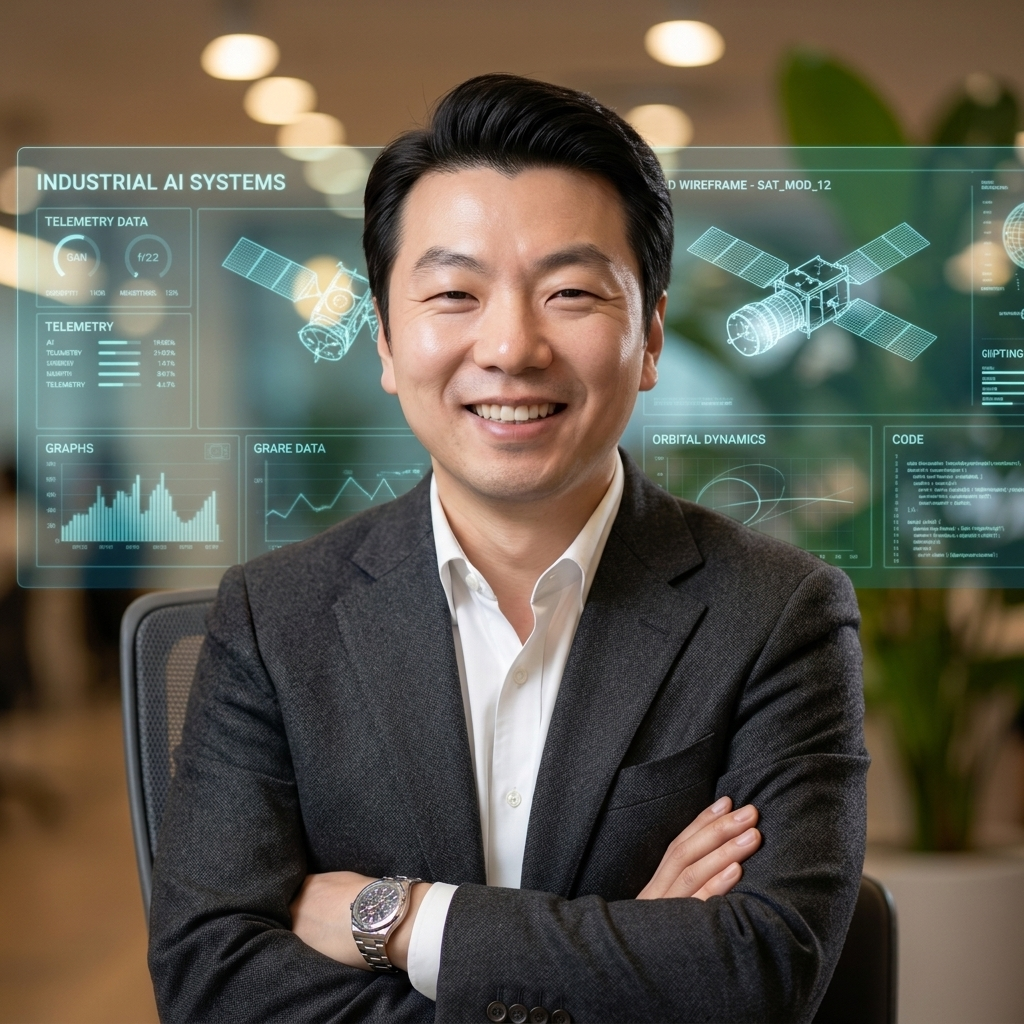
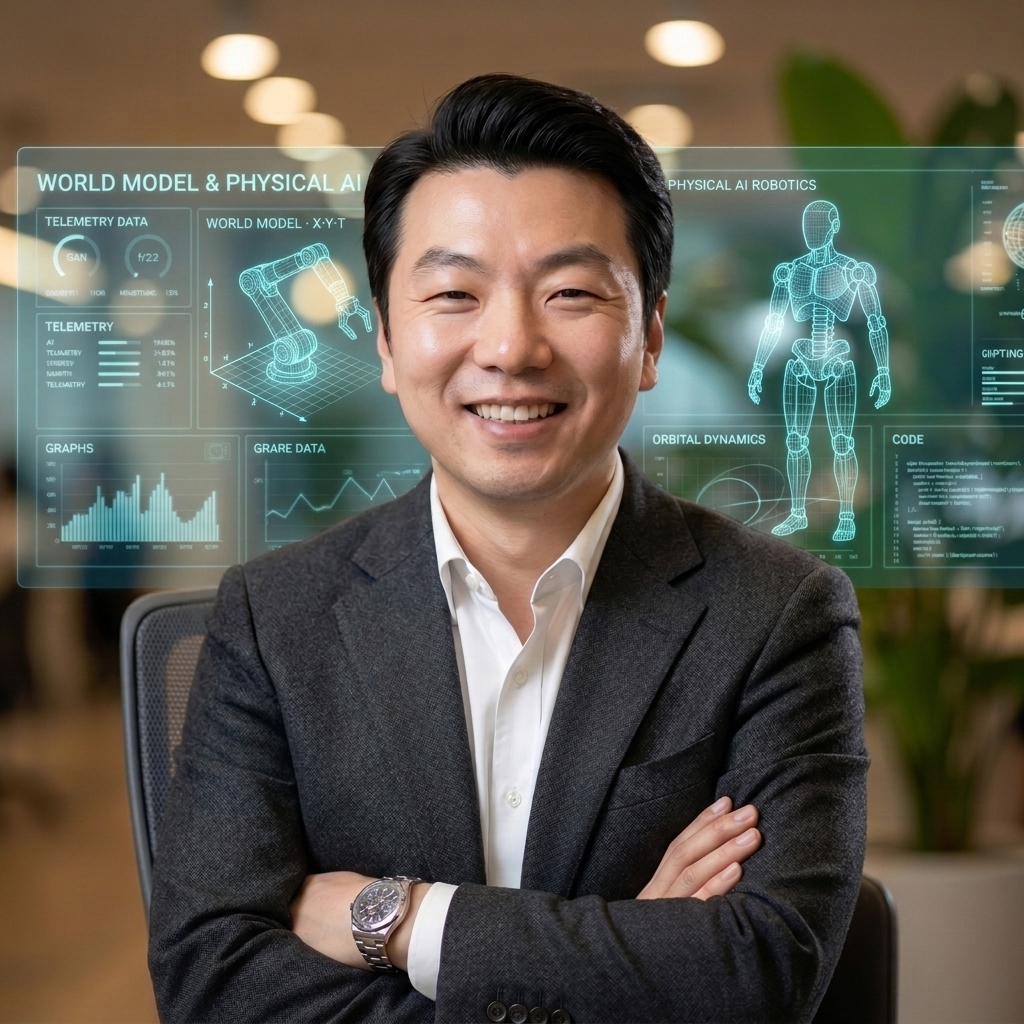
Update CEO portrait HUD background from satellites to World Model (X·Y·T) and Physical AI Robotics

Changed region(s): [[0.6562, 0.1562, 0.9062, 0.5312], [0.0312, 0.1562, 0.375, 0.4062], [0.3438, 0.875, 0.375, 0.9062]]

diff --git a/story.html b/story.html
@@ -1571,7 +1571,7 @@
                             </div>
                             <div class="col-lg-4">
                                 <div class="p-4 rounded-4 text-center" style="background: rgba(7, 11, 20, 0.85); border: 1px solid rgba(56, 189, 248, 0.3);">
-                                    <img src="assets/images/team/team-1.jpg?v=20261102v50" alt="허상훈 대표 (Sang-Hun Heo)" style="width: 136px; height: 136px; object-fit: cover; border-radius: 20px; border: 2px solid rgba(56, 189, 248, 0.45); box-shadow: 0 12px 28px rgba(0,0,0,0.45); margin-bottom: 16px;">
+                                    <img src="assets/images/team/team-1.jpg?v=20261103v83" alt="허상훈 대표 (Sang-Hun Heo)" style="width: 136px; height: 136px; object-fit: cover; border-radius: 20px; border: 2px solid rgba(56, 189, 248, 0.45); box-shadow: 0 12px 28px rgba(0,0,0,0.45); margin-bottom: 16px;">
                                     <h5 class="text-white fw-bold mb-1">허상훈 (Sang-Hun Heo)</h5>
                                     <p class="text-caption mb-2" style="color: #38bdf8; font-weight: 700;">대표(CEO) · 월드모델(World Model) <span style="white-space: nowrap;">AI&nbsp;아키텍트</span></p>
                                     <div class="text-center text-caption mb-3" style="color: #cbd5e1; line-height: 1.68; word-break: keep-all;">

diff --git a/index-v2.html b/index-v2.html
@@ -1595,7 +1595,7 @@
                         <div class="col-lg-4 col-md-8 lg-mb-24">
                             <div class="team-item team-ceo-card h-100 effectFade fadeUp">
                                 <div class="image">
-                                    <img src="assets/images/team/team-1.jpg?v=20261102v50" alt="허상훈 대표 (CEO)">
+                                    <img src="assets/images/team/team-1.jpg?v=20261103v83" alt="허상훈 대표 (CEO)">
                                 </div>
                                 <div class="team-ceo-body">
                                     <div class="name h6 fw-semibold">허상훈 (Sang-Hun Heo)</div>

diff --git a/index.html b/index.html
@@ -1594,7 +1594,7 @@
                         <div class="col-lg-4 col-md-8 lg-mb-24">
                             <div class="team-item team-ceo-card h-100 effectFade fadeUp">
                                 <div class="image">
-                                    <img src="assets/images/team/team-1.jpg?v=20261102v50" alt="허상훈 대표 (CEO)">
+                                    <img src="assets/images/team/team-1.jpg?v=20261103v83" alt="허상훈 대표 (CEO)">
                                 </div>
                                 <div class="team-ceo-body">
                                     <div class="name h6 fw-semibold">허상훈 (Sang-Hun Heo)</div>

diff --git a/about.html b/about.html
@@ -890,7 +890,7 @@
                         <div class="col-lg-4 col-md-8 lg-mb-24">
                             <div class="team-item team-ceo-card h-100 effectFade fadeUp">
                                 <div class="image">
-                                    <img src="assets/images/team/team-1.jpg?v=20261102v50" alt="허상훈 대표">
+                                    <img src="assets/images/team/team-1.jpg?v=20261103v83" alt="허상훈 대표">
                                 </div>
                                 <div class="team-ceo-body">
                                     <div class="name h6 fw-semibold">허상훈 (Sang-Hun Heo)</div>

diff --git a/blog-single.html b/blog-single.html
@@ -398,7 +398,7 @@
                                 </div>
                                 <div class="author type-reply">
                                     <div class="image">
-                                        <img loading="lazy" width="48" height="48" src="assets/images/team/team-1.jpg?v=20261102v50" alt="허상훈 대표">
+                                        <img loading="lazy" width="48" height="48" src="assets/images/team/team-1.jpg?v=20261103v83" alt="허상훈 대표">
                                     </div>
                                     <div class="content">
                                         <div class="info">
